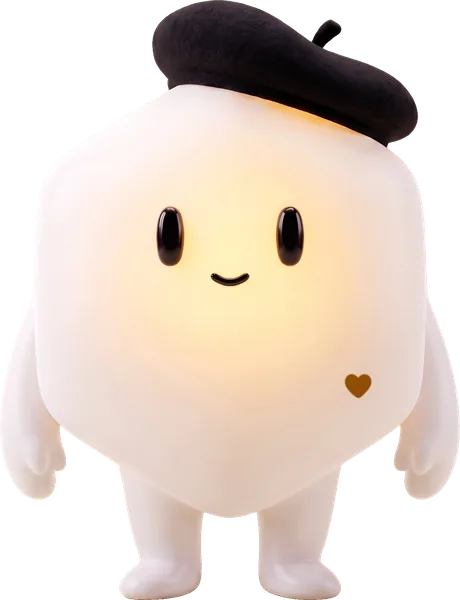
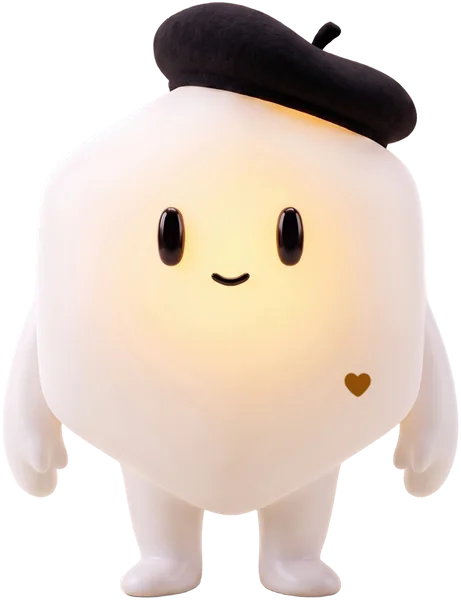
feat(v0.7.0): artes recortadas da exportação do Claude Design, movimento sem esticar e a luz da transição
Corpo 600 px / rosto 128 px em WebP a partir dos recortes oficiais; respira com escala uniforme (≤ 1,015, 4,8 s),
a luz pulsa trabalhando (2,4 s), pulinho feliz uma vez (1,4 s); sem piscar simulado (espera as poses novas);
LOVA_ASSETS.light para a transição barra ↔ cantinho.

diff --git a/src/brand/LovaMascot.tsx b/src/brand/LovaMascot.tsx
@@ -1,24 +1,26 @@
 /**
- * Lova — o mascote do agente da Lovarch (bíblia aprovada em 23/10/2026).
+ * Lova — o mascote do agente da Lovarch (bíblia aprovada em 23/10/2026; telas do Claude Design de 24/10/2026).
  *
  * Duas peças, a mesma fonte:
  *   • `LovaMascot` — o corpo inteiro (início do chat, cantinho com a barra oculta, canto do 3D).
  *   • `LovaAvatar` — o rostinho (boina + rosto + a pinta de coração), 24–36 px, ao lado das respostas.
  *
- * As imagens são as OFICIAIS (renders da Sandra), só com o fundo tirado localmente — nunca redesenhe,
- * nunca gere outra pose com IA, nunca corte a pinta de coração. Estados da seção 11.13 do plano:
- *   idle (repouso, branco) · listening (= repouso por enquanto) · thinking/working (translúcido com o símbolo)
+ * As imagens são as OFICIAIS (renders da Sandra) recortadas com alfa — nunca redesenhe, nunca gere outra pose com IA,
+ * nunca corte a pinta de coração, nunca estique (só escala UNIFORME, até 1,015). Estados da seção 11.13 do plano:
+ *   idle (repouso, branco) · listening (= repouso até a pose chegar) · thinking/working (translúcido com o símbolo)
  *   · delivered (aceso por inteiro) · happy (feliz) · shy (tímido, ao receber elogio) · sad (errou e mostra a saída).
- * «Bravo» e «sem paciência» não existem aqui: nunca são dirigidos à pessoa.
+ * «Bravo» e «sem paciência» não existem aqui: nunca são dirigidos à pessoa. `LOVA_ASSETS.light` é a luz da
+ * transição (o hexágono de luz): quem estica é a luz, nunca o Lova.
  *
- * Movimento (`animated`): respira devagar e pisca de vez em quando; ao virar `delivered` dá um pulinho.
- * Com `prefers-reduced-motion` fica parado. É decorativo por padrão; passe `label` para virar imagem com nome.
+ * Movimento (`animated`), os mesmos keyframes do Claude Design: repouso respira (4,8 s: sobe 1,5 px e cresce 1,5%,
+ * uniforme); trabalhando pulsa a luz (2,4 s); `happy` dá um pulinho uma vez (1,4 s). Com `prefers-reduced-motion`
+ * fica parado. Piscar, olhar de lado e acenar entram quando as poses novas chegarem (não se simula com máscara).
  *
  * Uso:
- *   <LovaMascot state="idle" height={160} animated />
+ *   <LovaMascot state="idle" height={150} animated />
  *   <LovaAvatar state="thinking" size={28} />
  */
-import { motion, useReducedMotion } from "framer-motion";
+import { motion, useReducedMotion, type MotionProps } from "framer-motion";
 import idleBody from "./assets/lova/lova-idle.webp";
 import idleFace from "./assets/lova/lova-idle-face.webp";
 import thinkingBody from "./assets/lova/lova-thinking.webp";
@@ -31,42 +33,50 @@ import shyBody from "./assets/lova/lova-shy.webp";
 import shyFace from "./assets/lova/lova-shy-face.webp";
 import sadBody from "./assets/lova/lova-sad.webp";
 import sadFace from "./assets/lova/lova-sad-face.webp";
+import lightArt from "./assets/lova/lova-light.webp";
 import { cn } from "../lib/cn";
 
 export type LovaState = "idle" | "listening" | "thinking" | "working" | "delivered" | "happy" | "shy" | "sad";
 
-type Art = { body: string; face: string; ratio: number; blink: boolean };
+type ArtKey = "idle" | "thinking" | "delivered" | "happy" | "shy" | "sad";
+type Art = { key: ArtKey; body: string; face: string; ratio: number };
 
 /** Proporção largura/altura real de cada corpo (WebP de 600 px de altura, medidos com Pillow). */
-const ART: Record<"idle" | "thinking" | "delivered" | "happy" | "shy" | "sad", Art> = {
-  idle: { body: idleBody, face: idleFace, ratio: 460 / 600, blink: true },
-  thinking: { body: thinkingBody, face: thinkingFace, ratio: 456 / 600, blink: false },
-  delivered: { body: deliveredBody, face: deliveredFace, ratio: 460 / 600, blink: true },
-  happy: { body: happyBody, face: happyFace, ratio: 573 / 600, blink: false },
-  shy: { body: shyBody, face: shyFace, ratio: 397 / 600, blink: false },
-  sad: { body: sadBody, face: sadFace, ratio: 462 / 600, blink: false },
+const ART: Record<ArtKey, Art> = {
+  idle: { key: "idle", body: idleBody, face: idleFace, ratio: 461 / 600 },
+  thinking: { key: "thinking", body: thinkingBody, face: thinkingFace, ratio: 457 / 600 },
+  delivered: { key: "delivered", body: deliveredBody, face: deliveredFace, ratio: 461 / 600 },
+  happy: { key: "happy", body: happyBody, face: happyFace, ratio: 572 / 600 },
+  shy: { key: "shy", body: shyBody, face: shyFace, ratio: 403 / 600 },
+  sad: { key: "sad", body: sadBody, face: sadFace, ratio: 463 / 600 },
 };
 
-/** O desenho de cada estado (listening e working usam a arte mais próxima até a animação da L7). */
+/** O desenho de cada estado (listening e working usam a arte mais próxima até as poses novas). */
 export function lovaArt(state: LovaState = "idle"): Art {
   if (state === "thinking" || state === "working") return ART.thinking;
   if (state === "listening") return ART.idle;
   return ART[state] ?? ART.idle;
 }
 
-/** Os olhos no corpo de repouso/aceso, em % da imagem (medidos): o piscar é uma pálpebra da cor da pele. */
-const EYES = [
-  { left: 33.4, width: 6.6 },
-  { left: 59.7, width: 6.6 },
-];
-const EYE_TOP = 34.0;
-const EYE_HEIGHT = 10.6;
+/** O movimento de cada arte: respirar (repouso), pulsar a luz (trabalhando), pulinho (feliz) ou nada. */
+export function lovaMotion(art: ArtKey): "breathe" | "work" | "hop" | null {
+  if (art === "idle" || art === "delivered") return "breathe";
+  if (art === "thinking") return "work";
+  if (art === "happy") return "hop";
+  return null;
+}
+
+const MOTION: Record<"breathe" | "work" | "hop", Pick<MotionProps, "animate" | "transition">> = {
+  breathe: { animate: { y: [0, -1.5, 0], scale: [1, 1.015, 1] }, transition: { duration: 4.8, ease: "easeInOut", repeat: Infinity } },
+  work: { animate: { opacity: [1, 0.8, 1] }, transition: { duration: 2.4, ease: "easeInOut", repeat: Infinity } },
+  hop: { animate: { y: [0, -12, 0, -4, 0, 0] }, transition: { duration: 1.4, ease: "easeOut", times: [0, 0.2, 0.4, 0.5, 0.62, 1] } },
+};
 
 export interface LovaMascotProps {
   state?: LovaState;
   /** Altura em px (a largura segue a proporção real da arte). */
   height?: number;
-  /** Respira e pisca; pulinho ao entregar. Parado com `prefers-reduced-motion`. */
+  /** Respira / pulsa / pulinho. Parado com `prefers-reduced-motion`. */
   animated?: boolean;
   /** Nome acessível. Sem ele a imagem é decorativa. */
   label?: string;
@@ -78,56 +88,35 @@ export interface LovaMascotProps {
 export function LovaMascot({ state = "idle", height = 160, animated = false, label, priority = false, className }: LovaMascotProps) {
   const reduced = useReducedMotion();
   const art = lovaArt(state);
-  const move = animated && !reduced;
+  const kind = animated && !reduced ? lovaMotion(art.key) : null;
   const width = Math.round(height * art.ratio);
   return (
     <span
-      className={cn("relative inline-block select-none", className)}
+      className={cn("relative inline-block shrink-0 select-none", className)}
       style={{ width, height }}
       role={label ? "img" : undefined}
       aria-label={label}
       aria-hidden={label ? undefined : true}
       data-lova-state={state}
     >
-      <motion.span
-        key={state}
-        className="absolute inset-0 block"
+      <motion.img
+        key={art.key}
+        src={art.body}
+        alt=""
+        draggable={false}
+        loading={priority ? "eager" : "lazy"}
+        decoding="async"
+        className="pointer-events-none absolute inset-0 block size-full object-contain"
         style={{ transformOrigin: "50% 100%" }}
-        initial={move && state === "delivered" ? { y: 0 } : false}
-        animate={move ? (state === "delivered" ? { y: [0, -height * 0.06, 0, -height * 0.025, 0] } : { scaleY: [1, 1.018, 1], scaleX: [1, 0.994, 1] }) : undefined}
-        transition={move ? (state === "delivered" ? { duration: 0.7, ease: "easeOut" } : { duration: 4.2, ease: "easeInOut", repeat: Infinity }) : undefined}
-      >
-        <img
-          src={art.body}
-          alt=""
-          draggable={false}
-          loading={priority ? "eager" : "lazy"}
-          decoding="async"
-          className="pointer-events-none block size-full object-contain"
-        />
-        {move && art.blink && EYES.map((eye) => (
-          <motion.span
-            key={eye.left}
-            aria-hidden
-            className="absolute block rounded-full"
-            style={{
-              left: `${eye.left}%`, width: `${eye.width}%`, top: `${EYE_TOP}%`, height: `${EYE_HEIGHT}%`,
-              transformOrigin: "50% 0%",
-              background: "radial-gradient(closest-side, rgb(255 236 196), rgb(255 238 204) 80%, rgb(255 238 204 / 0))",
-            }}
-            initial={{ scaleY: 0 }}
-            animate={{ scaleY: [0, 0, 1, 0] }}
-            transition={{ duration: 5.2, times: [0, 0.95, 0.975, 1], repeat: Infinity, ease: "easeInOut" }}
-          />
-        ))}
-      </motion.span>
+        {...(kind ? MOTION[kind] : {})}
+      />
     </span>
   );
 }
 
 export interface LovaAvatarProps {
   state?: LovaState;
-  /** Lado em px (24–36 nas respostas; o arquivo tem 112 px para telas 3x). */
+  /** Lado em px (24–36 nas respostas; o arquivo tem 128 px para telas 3x). */
   size?: number;
   label?: string;
   className?: string;
@@ -152,7 +141,7 @@ export function LovaAvatar({ state = "idle", size = 28, label, className }: Lova
   );
 }
 
-/** URLs das artes (para e-mail, OG, plugins que não renderizam React). */
+/** URLs das artes (para e-mail, OG, plugins que não renderizam React) e a luz da transição. */
 export const LOVA_ASSETS = {
   idle: { body: idleBody, face: idleFace },
   thinking: { body: thinkingBody, face: thinkingFace },
@@ -160,4 +149,5 @@ export const LOVA_ASSETS = {
   happy: { body: happyBody, face: happyFace },
   shy: { body: shyBody, face: shyFace },
   sad: { body: sadBody, face: sadFace },
+  light: lightArt,
 } as const;

diff --git a/src/docs/sections/brand.tsx b/src/docs/sections/brand.tsx
@@ -79,7 +79,7 @@ export function BrandSection() {
           <div className="rounded-xl border border-line bg-background p-5">
             <div className="flex flex-wrap items-end gap-4">
               {LOVA_STATES.map((s) => (
-                <div key={s} className="flex flex-col items-center gap-1"><LovaMascot state={s} height={96} animated={s === "idle"} /><span className="font-mono text-micro text-muted-foreground">{s}</span></div>
+                <div key={s} className="flex flex-col items-center gap-1"><LovaMascot state={s} height={96} animated /><span className="font-mono text-micro text-muted-foreground">{s}</span></div>
               ))}
             </div>
             <div className="mt-4 flex items-center gap-3">

diff --git a/CHANGELOG.md b/CHANGELOG.md
@@ -3,7 +3,7 @@
 ## v0.7.0 — 2026-10-24
 
 ### Added
-- `/brand`: `LovaMascot` (corpo inteiro) e `LovaAvatar` (rostinho 24–36 px) — o mascote do agente Lova, com os estados da interface (`idle`, `listening`, `thinking`/`working`, `delivered`, `happy`, `shy`, `sad`), as artes OFICIAIS sem fundo em WebP com alfa (corpo 600 px ≤ 28 KB, rosto 112 px ≤ 4 KB), movimento sutil opcional (respira, pisca, pulinho ao entregar) parado com `prefers-reduced-motion`, `lovaArt()` e `LOVA_ASSETS`. Doc em `docs/brand.md` e demo na seção «Marca».
+- `/brand`: `LovaMascot` (corpo inteiro) e `LovaAvatar` (rostinho 24–36 px) — o mascote do agente Lova, com os estados da interface (`idle`, `listening`, `thinking`/`working`, `delivered`, `happy`, `shy`, `sad`), as artes OFICIAIS recortadas com alfa em WebP (corpo 600 px ≤ 54 KB, rosto 128 px ≤ 9 KB, a luz da transição), movimento opcional com os keyframes do Claude Design (respira com escala uniforme ≤ 1,015, a luz pulsa trabalhando, pulinho feliz uma vez) parado com `prefers-reduced-motion`, `lovaArt()`, `lovaMotion()` e `LOVA_ASSETS`. Doc em `docs/brand.md` e demo na seção «Marca».
 
 ## v0.6.4 — 2026-10-20
 
